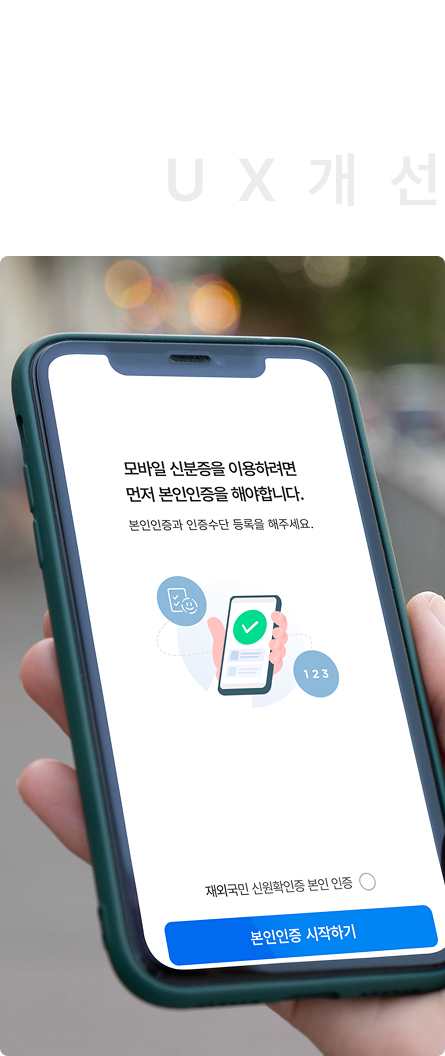
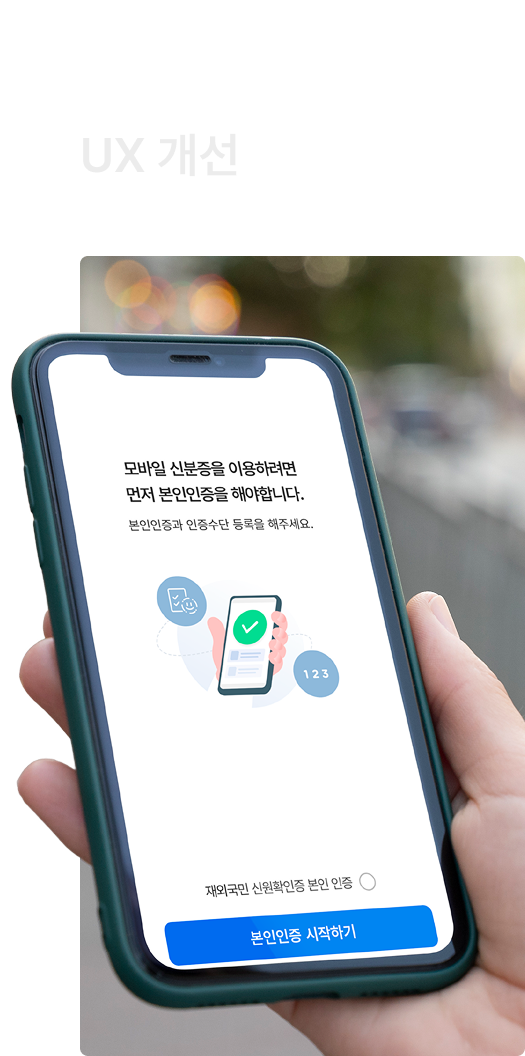
커밋

diff --git a/case_detail/mois.html b/case_detail/mois.html
@@ -30,8 +30,8 @@
                 <div class="content">
                     <div class="case-detail-top">
                         <div class="case-detail-top-info">
-                            <h2 class="blind">모바일 신분증 U I U X 개 선</h2>
-                            <p><img src="../assets/img/case/case_detail/mois/txt_mois01.png" alt="대한민국의 내국민, 재외국민, 외국인 등의 다양한 사용자들이이용하는 모바일 신분증의 사용성을 높이기 위한 UIUX 개선"></p>
+                            <h2>모바일 신분증<br />UX 개선</h2>
+                            <p>대한민국의 내국민, 재외국민, 외국인 등의<br />다양한 사용자들이 이용하는 <strong>모바일 신분증의<br />사용성</strong>을 높이기 위한 <strong>UX 개선</strong></p>
                             
                         </div>
                         <div class="case-detail-top-img">
@@ -41,23 +41,24 @@
  
                     <div class="case-detail-content">
                         <div class="case-detail-content-item">
-                            <img src="../assets/img/case/case_detail/mois/img_mois01.png" alt="다양한 사용자를 개인정보등록절차 UX 개선" class="info">
+                            <img src="../assets/img/case/case_detail/mois/img_mois01.png" alt="" class="info">
                             <img src="../assets/img/case/case_detail/typo_l.png" alt="" class="typo">
+                            
                         </div>
-                        <div class="case-detail-content-item">                           
+                        <div class="case-detail-content-item">                            
                             <img src="../assets/img/case/case_detail/typo_o.png" alt="" class="typo">
-                            <img src="../assets/img/case/case_detail/mois/img_mois02.png" alt="직관적인 모바일 신분등 발급절차" class="info">
+                            <img src="../assets/img/case/case_detail/mois/img_mois02.png" alt="" class="info">
                         </div>
                         <div class="case-detail-content-item">
-                            <img src="../assets/img/case/case_detail/mois/img_mois03.png" alt="가독성을 높인 안면인증" class="info">
-                            <img src="../assets/img/case/case_detail/typo_g.png" alt="" class="typo">
+                            <img src="../assets/img/case/case_detail/mois/img_mois03.png" alt="" class="info"> 
+                            <img src="../assets/img/case/case_detail/typo_g.png" alt="" class="typo">                            
                         </div>
-                        <div class="case-detail-content-item">                           
+                        <div class="case-detail-content-item">                            
                             <img src="../assets/img/case/case_detail/typo_i.png" alt="" class="typo">
-                            <img src="../assets/img/case/case_detail/mois/img_mois04.png" alt="직관적인 신분증 검증절차 프로세스" class="info"> 
+                            <img src="../assets/img/case/case_detail/mois/img_mois04.png" alt="" class="info">                          
                         </div>
                         <div class="case-detail-content-item"> 
-                            <img src="../assets/img/case/case_detail/mois/img_mois05.png" alt="세계최초 모바일신분증 규격서" class="info">
+                            <img src="../assets/img/case/case_detail/mois/img_mois05.png" alt="" class="info">
                             <img src="../assets/img/case/case_detail/typo_c.png" alt="" class="typo">
                         </div>
                     </div>

diff --git a/assets/css/common.css b/assets/css/common.css
@@ -295,9 +295,12 @@ footer p {
 
 /* case_detail */
 .case-detail-top {
+    display: flex;
+    justify-content: space-between;
+    align-items: center;
     height: 765px;
     position: relative;
-    margin-top: 96px;
+    margin-top: 100px;
 }
 
 .case-detail-top-info {
@@ -305,11 +308,10 @@ footer p {
 }
 
 .case-detail-top-info h2 {
-    font-size: 80px;
+    font-size: 48px;
     font-style: normal;
     font-weight: 600;
-    line-height: 120%; /* 96px */
-    letter-spacing: -0.8px;
+    line-height: 62px;
     color: #FFF;
 }
 
@@ -318,14 +320,12 @@ footer p {
 }
 
 .case-detail-top-info p {
-    margin-top: 30px;
-    font-size: 46px;
+    margin-top: 32px;
+    font-size: 20px;
     font-style: normal;
     font-weight: 100;
-    line-height: 120%; /* 55.2px */
-    letter-spacing: -0.46px;
+    line-height: 28px;
     color: #ECECEC;
-    text-align: justify;
 }
 
 .case-detail-top-info p strong {
@@ -333,12 +333,8 @@ footer p {
 }
 
 .case-detail-top-img {
-    width: 539px;    
-    position: absolute;
-    top: 0;
-    right: 0;
-    transition: transform 0.6s ease-out;
-    transform: rotate(120deg);
+    width: 529px;
+    height: 708px; 
 }
 
 .case-detail-content {
@@ -362,17 +358,37 @@ footer p {
 }
 
 .case-detail-content-item img {
-    max-width: 100%;
+    width: fit-content;
     height: auto;
+}
+
+.case-detail-content-item .info {
+    position: relative;
+    top: 0;
+    opacity: 0;
+    transform: translate(0, 100px);
+    transition: all 0.8s ease-out;
+    will-change: transform, opacity; /* 성능 최적화 */
+}
+
+.case-detail-content-item .info.active {
+    opacity: 1;
+    transform: translate(0, 0);
+}
+
+.case-detail-content-item:nth-child(even) .info {
+    right: -80px;
+}
+
+.case-detail-content-item:nth-child(odd) .info {
+    left: -80px;   
 }
 
 .case-detail-content-item .typo {
     position: absolute;
     top: 50%;
-    opacity: 0;
-    transform: translate(0, 100px);
-    transition: all 0.8s ease-out;
-    will-change: transform, opacity; /* 성능 최적화 */
+    transform: translate(0, -50%);
+   
 }
 
 .case-detail-content-item:nth-child(even) .typo {    
@@ -382,12 +398,6 @@ footer p {
 .case-detail-content-item:nth-child(odd) .typo {
     right: -175px;
 
-}
-
-/* 활성화된 요소의 최종 위치 */
-.case-detail-content-item .typo.active {
-    opacity: 1;
-    transform: translate(0, -50%);
 }
 
 /* lab */

diff --git a/assets/js/main.js b/assets/js/main.js
@@ -48,7 +48,7 @@ function initHeroAnimation() {
 // ========================================
 
 function initCaseDetailAnimation() {
-    const typoElements = document.querySelectorAll('.case-detail-content .typo');
+    const typoElements = document.querySelectorAll('.case-detail-content .info');
     if (typoElements.length === 0) return;
     
     const observerOptions = {
@@ -67,31 +67,6 @@ function initCaseDetailAnimation() {
     }, observerOptions);
 
     typoElements.forEach(typo => observer.observe(typo));
-}
-
-function initCaseDetailScrollAnimation() {
-    const topImage = document.querySelector('.case-detail-top-img');
-    if (!topImage) return;
-    
-    let lastScrollPosition = 0;
-    let isAnimationComplete = false;
-
-    window.addEventListener('scroll', () => {
-        const currentScrollPosition = window.scrollY;
-        
-        if (!isAnimationComplete && currentScrollPosition > lastScrollPosition) {
-            const maxScroll = 500;
-            const rotation = Math.min(currentScrollPosition / maxScroll * 120, 120);
-            
-            topImage.style.transform = `rotate(${-120 + rotation}deg)`;
-
-            if (currentScrollPosition >= maxScroll) {
-                isAnimationComplete = true;
-            }
-        }
-        
-        lastScrollPosition = currentScrollPosition;
-    });
 }
 
 // ========================================
@@ -188,8 +163,7 @@ function initMobileNavigation() {
 
 document.addEventListener('DOMContentLoaded', function() {
     initHeroAnimation();
-    initCaseDetailAnimation();
-    initCaseDetailScrollAnimation();
+    initCaseDetailAnimation();    
     initLabAnimation();
     initClipboardCopy();
     initMobileNavigation();
